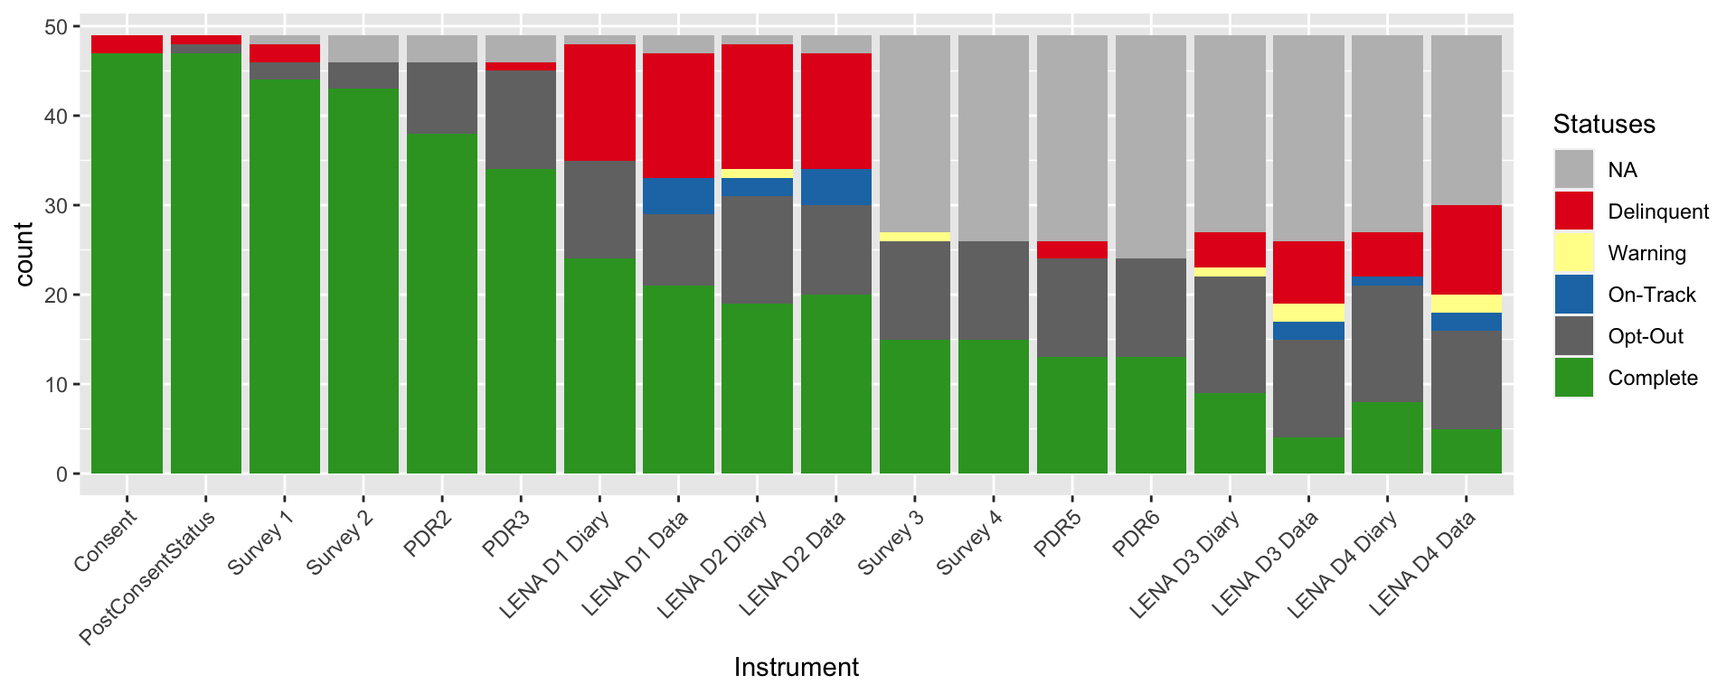
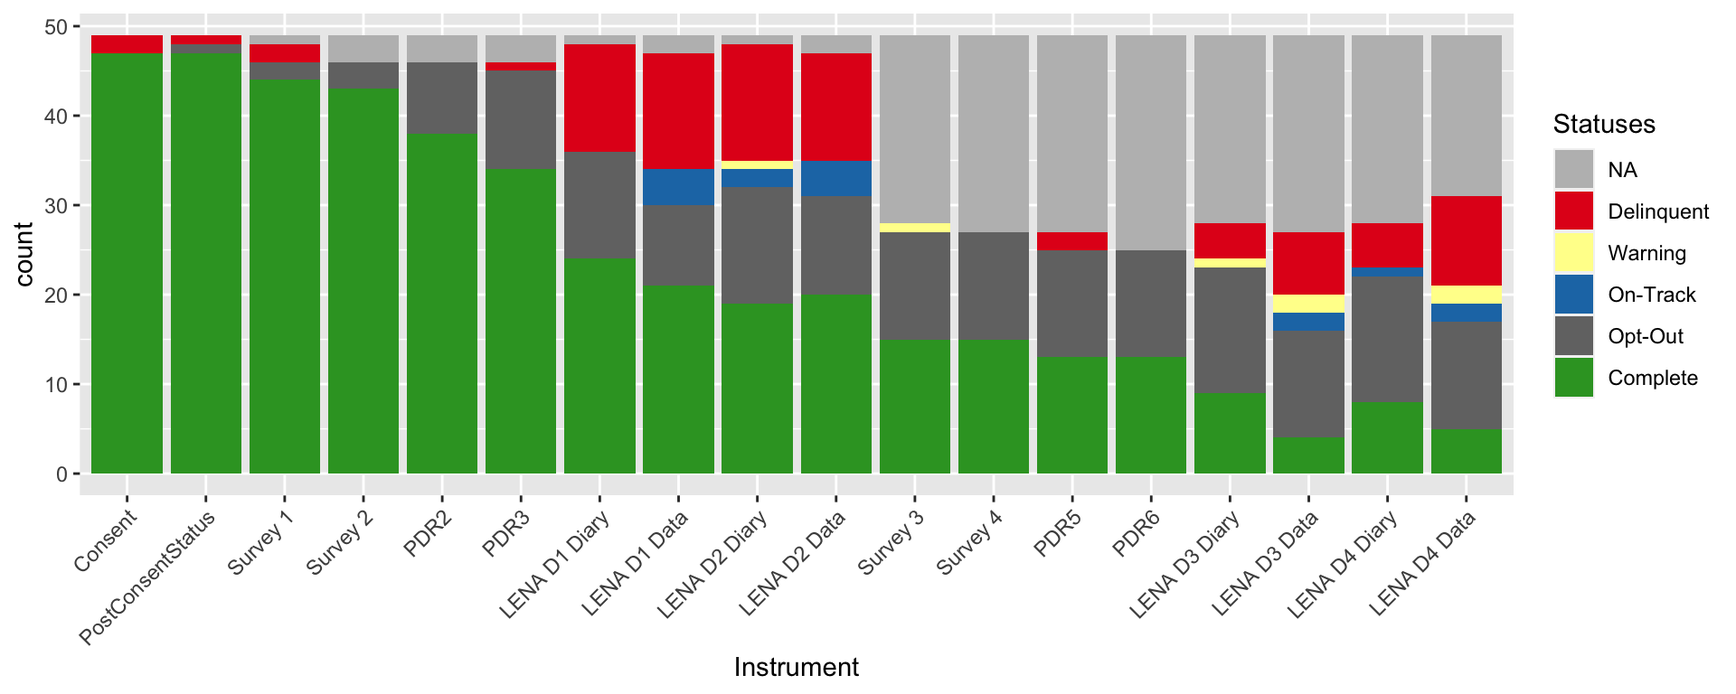
Switch dropoutdate to dropoutstage

diff --git a/_site/reports.html b/_site/reports.html
@@ -399,7 +399,7 @@ $(document).ready(function () {
 </div>
 <center>
 <div id="htmlwidget-1fcff53b1c506bc87854" style="width:960px;height:384px;" class="plotly html-widget"></div>
-<script type="application/json" data-for="htmlwidget-1fcff53b1c506bc87854">{"x":{"data":[{"x":[1594210295,1595855440,1595947129,1596636699,1597147658,1597190400,1597276800,1597402867,1598436608,1598538979,1598541299,1598955066,1599570320,1600250194,1600255992,1600300800,1600355481,1600387200,1600863340,1601302221,1601566658,1602239005,1603368728,1603379955,1603670400,1603977413,1604491899,1604751373,1605089156,1605139200,1605179257,1605721538,1605872792,1607040000,1607472000,1607644800,1607687486,1609891200,1609897301,1611187200,1611878400,1612396800,1612396800,1612396800,1611878400,1611187200,1609897301,1609891200,1607687486,1607644800,1607472000,1607040000,1605872792,1605721538,1605179257,1605139200,1605089156,1604751373,1604491899,1603977413,1603670400,1603379955,1603368728,1602239005,1601566658,1601302221,1600863340,1600387200,1600355481,1600300800,1600255992,1600250194,1599570320,1598955066,1598541299,1598538979,1598436608,1597402867,1597276800,1597190400,1597147658,1596636699,1595947129,1595855440,1594210295,1594210295],"y":[0,0,0,0,0,0,0,0,0,0,0,0,0,0,0,0,0,0,0,0,0,0,0,0,0,0,0,0,0,0,0,0,0,0,0,0,0,0,0,0,0,0,0,43,42,41,40,39,38,37,36,35,34,33,32,31,30,29,28,27,26,25,24,23,22,21,20,19,18,17,16,15,14,13,12,11,10,9,8,6,5,4,3,2,1,0],"text":["InformedConsent: 2020-07-08 19:11:35<br />Cumulative:  1","InformedConsent: 2020-07-27 20:10:40<br />Cumulative:  2","InformedConsent: 2020-07-28 21:38:49<br />Cumulative:  3","InformedConsent: 2020-08-05 21:11:39<br />Cumulative:  4","InformedConsent: 2020-08-11 19:07:38<br />Cumulative:  5","InformedConsent: 2020-08-12 07:00:00<br />Cumulative:  6","InformedConsent: 2020-08-13 07:00:00<br />Cumulative:  8","InformedConsent: 2020-08-14 18:01:07<br />Cumulative:  9","InformedConsent: 2020-08-26 17:10:08<br />Cumulative: 10","InformedConsent: 2020-08-27 21:36:19<br />Cumulative: 11","InformedConsent: 2020-08-27 22:14:59<br />Cumulative: 12","InformedConsent: 2020-09-01 17:11:06<br />Cumulative: 13","InformedConsent: 2020-09-08 20:05:20<br />Cumulative: 14","InformedConsent: 2020-09-16 16:56:34<br />Cumulative: 15","InformedConsent: 2020-09-16 18:33:12<br />Cumulative: 16","InformedConsent: 2020-09-17 07:00:00<br />Cumulative: 17","InformedConsent: 2020-09-17 22:11:21<br />Cumulative: 18","InformedConsent: 2020-09-18 07:00:00<br />Cumulative: 19","InformedConsent: 2020-09-23 19:15:40<br />Cumulative: 20","InformedConsent: 2020-09-28 21:10:21<br />Cumulative: 21","InformedConsent: 2020-10-01 22:37:38<br />Cumulative: 22","InformedConsent: 2020-10-09 17:23:25<br />Cumulative: 23","InformedConsent: 2020-10-22 19:12:08<br />Cumulative: 24","InformedConsent: 2020-10-22 22:19:15<br />Cumulative: 25","InformedConsent: 2020-10-26 07:00:00<br />Cumulative: 26","InformedConsent: 2020-10-29 20:16:53<br />Cumulative: 27","InformedConsent: 2020-11-04 20:11:39<br />Cumulative: 28","InformedConsent: 2020-11-07 20:16:13<br />Cumulative: 29","InformedConsent: 2020-11-11 18:05:56<br />Cumulative: 30","InformedConsent: 2020-11-12 08:00:00<br />Cumulative: 31","InformedConsent: 2020-11-12 19:07:37<br />Cumulative: 32","InformedConsent: 2020-11-19 01:45:38<br />Cumulative: 33","InformedConsent: 2020-11-20 19:46:32<br />Cumulative: 34","InformedConsent: 2020-12-04 08:00:00<br />Cumulative: 35","InformedConsent: 2020-12-09 08:00:00<br />Cumulative: 36","InformedConsent: 2020-12-11 08:00:00<br />Cumulative: 37","InformedConsent: 2020-12-11 19:51:26<br />Cumulative: 38","InformedConsent: 2021-01-06 08:00:00<br />Cumulative: 39","InformedConsent: 2021-01-06 09:41:41<br />Cumulative: 40","InformedConsent: 2021-01-21 08:00:00<br />Cumulative: 41","InformedConsent: 2021-01-29 08:00:00<br />Cumulative: 42","InformedConsent: 2021-02-04 08:00:00<br />Cumulative: 43","InformedConsent: 2021-02-04 08:00:00<br />Cumulative: 43","InformedConsent: 2021-02-04 08:00:00<br />Cumulative: 43","InformedConsent: 2021-01-29 08:00:00<br />Cumulative: 42","InformedConsent: 2021-01-21 08:00:00<br />Cumulative: 41","InformedConsent: 2021-01-06 09:41:41<br />Cumulative: 40","InformedConsent: 2021-01-06 08:00:00<br />Cumulative: 39","InformedConsent: 2020-12-11 19:51:26<br />Cumulative: 38","InformedConsent: 2020-12-11 08:00:00<br />Cumulative: 37","InformedConsent: 2020-12-09 08:00:00<br />Cumulative: 36","InformedConsent: 2020-12-04 08:00:00<br />Cumulative: 35","InformedConsent: 2020-11-20 19:46:32<br />Cumulative: 34","InformedConsent: 2020-11-19 01:45:38<br />Cumulative: 33","InformedConsent: 2020-11-12 19:07:37<br />Cumulative: 32","InformedConsent: 2020-11-12 08:00:00<br />Cumulative: 31","InformedConsent: 2020-11-11 18:05:56<br />Cumulative: 30","InformedConsent: 2020-11-07 20:16:13<br />Cumulative: 29","InformedConsent: 2020-11-04 20:11:39<br />Cumulative: 28","InformedConsent: 2020-10-29 20:16:53<br />Cumulative: 27","InformedConsent: 2020-10-26 07:00:00<br />Cumulative: 26","InformedConsent: 2020-10-22 22:19:15<br />Cumulative: 25","InformedConsent: 2020-10-22 19:12:08<br />Cumulative: 24","InformedConsent: 2020-10-09 17:23:25<br />Cumulative: 23","InformedConsent: 2020-10-01 22:37:38<br />Cumulative: 22","InformedConsent: 2020-09-28 21:10:21<br />Cumulative: 21","InformedConsent: 2020-09-23 19:15:40<br />Cumulative: 20","InformedConsent: 2020-09-18 07:00:00<br />Cumulative: 19","InformedConsent: 2020-09-17 22:11:21<br />Cumulative: 18","InformedConsent: 2020-09-17 07:00:00<br />Cumulative: 17","InformedConsent: 2020-09-16 18:33:12<br />Cumulative: 16","InformedConsent: 2020-09-16 16:56:34<br />Cumulative: 15","InformedConsent: 2020-09-08 20:05:20<br />Cumulative: 14","InformedConsent: 2020-09-01 17:11:06<br />Cumulative: 13","InformedConsent: 2020-08-27 22:14:59<br />Cumulative: 12","InformedConsent: 2020-08-27 21:36:19<br />Cumulative: 11","InformedConsent: 2020-08-26 17:10:08<br />Cumulative: 10","InformedConsent: 2020-08-14 18:01:07<br />Cumulative:  9","InformedConsent: 2020-08-13 07:00:00<br />Cumulative:  8","InformedConsent: 2020-08-12 07:00:00<br />Cumulative:  6","InformedConsent: 2020-08-11 19:07:38<br />Cumulative:  5","InformedConsent: 2020-08-05 21:11:39<br />Cumulative:  4","InformedConsent: 2020-07-28 21:38:49<br />Cumulative:  3","InformedConsent: 2020-07-27 20:10:40<br />Cumulative:  2","InformedConsent: 2020-07-08 19:11:35<br />Cumulative:  1","InformedConsent: 2020-07-08 19:11:35<br />Cumulative:  1"],"type":"scatter","mode":"lines","line":{"width":1.88976377952756,"color":"transparent","dash":"solid"},"fill":"toself","fillcolor":"rgba(105,179,162,0.5)","hoveron":"points","showlegend":false,"xaxis":"x","yaxis":"y","hoverinfo":"text","frame":null},{"x":[1594210295,1595855440,1595947129,1596636699,1597147658,1597190400,1597276800,1597402867,1598436608,1598538979,1598541299,1598955066,1599570320,1600250194,1600255992,1600300800,1600355481,1600387200,1600863340,1601302221,1601566658,1602239005,1603368728,1603379955,1603670400,1603977413,1604491899,1604751373,1605089156,1605139200,1605179257,1605721538,1605872792,1607040000,1607472000,1607644800,1607687486,1609891200,1609897301,1611187200,1611878400,1612396800,null],"y":[1,2,3,4,5,6,8,9,10,11,12,13,14,15,16,17,18,19,20,21,22,23,24,25,26,27,28,29,30,31,32,33,34,35,36,37,38,39,40,41,42,43,48],"text":["InformedConsent: 2020-07-08 12:11:35<br />Cumulative:  1","InformedConsent: 2020-07-27 13:10:40<br />Cumulative:  2","InformedConsent: 2020-07-28 14:38:49<br />Cumulative:  3","InformedConsent: 2020-08-05 14:11:39<br />Cumulative:  4","InformedConsent: 2020-08-11 12:07:38<br />Cumulative:  5","InformedConsent: 2020-08-12 00:00:00<br />Cumulative:  6","InformedConsent: 2020-08-13 00:00:00<br />Cumulative:  8","InformedConsent: 2020-08-14 11:01:07<br />Cumulative:  9","InformedConsent: 2020-08-26 10:10:08<br />Cumulative: 10","InformedConsent: 2020-08-27 14:36:19<br />Cumulative: 11","InformedConsent: 2020-08-27 15:14:59<br />Cumulative: 12","InformedConsent: 2020-09-01 10:11:06<br />Cumulative: 13","InformedConsent: 2020-09-08 13:05:20<br />Cumulative: 14","InformedConsent: 2020-09-16 09:56:34<br />Cumulative: 15","InformedConsent: 2020-09-16 11:33:12<br />Cumulative: 16","InformedConsent: 2020-09-17 00:00:00<br />Cumulative: 17","InformedConsent: 2020-09-17 15:11:21<br />Cumulative: 18","InformedConsent: 2020-09-18 00:00:00<br />Cumulative: 19","InformedConsent: 2020-09-23 12:15:40<br />Cumulative: 20","InformedConsent: 2020-09-28 14:10:21<br />Cumulative: 21","InformedConsent: 2020-10-01 15:37:38<br />Cumulative: 22","InformedConsent: 2020-10-09 10:23:25<br />Cumulative: 23","InformedConsent: 2020-10-22 12:12:08<br />Cumulative: 24","InformedConsent: 2020-10-22 15:19:15<br />Cumulative: 25","InformedConsent: 2020-10-26 00:00:00<br />Cumulative: 26","InformedConsent: 2020-10-29 13:16:53<br />Cumulative: 27","InformedConsent: 2020-11-04 12:11:39<br />Cumulative: 28","InformedConsent: 2020-11-07 12:16:13<br />Cumulative: 29","InformedConsent: 2020-11-11 10:05:56<br />Cumulative: 30","InformedConsent: 2020-11-12 00:00:00<br />Cumulative: 31","InformedConsent: 2020-11-12 11:07:37<br />Cumulative: 32","InformedConsent: 2020-11-18 17:45:38<br />Cumulative: 33","InformedConsent: 2020-11-20 11:46:32<br />Cumulative: 34","InformedConsent: 2020-12-04 00:00:00<br />Cumulative: 35","InformedConsent: 2020-12-09 00:00:00<br />Cumulative: 36","InformedConsent: 2020-12-11 00:00:00<br />Cumulative: 37","InformedConsent: 2020-12-11 11:51:26<br />Cumulative: 38","InformedConsent: 2021-01-06 00:00:00<br />Cumulative: 39","InformedConsent: 2021-01-06 01:41:41<br />Cumulative: 40","InformedConsent: 2021-01-21 00:00:00<br />Cumulative: 41","InformedConsent: 2021-01-29 00:00:00<br />Cumulative: 42","InformedConsent: 2021-02-04 00:00:00<br />Cumulative: 43","InformedConsent: NA<br />Cumulative: 48"],"type":"scatter","mode":"lines","line":{"width":1.88976377952756,"color":"rgba(105,179,162,1)","dash":"solid"},"hoveron":"points","showlegend":false,"xaxis":"x","yaxis":"y","hoverinfo":"text","frame":null}],"layout":{"margin":{"t":65.813200498132,"r":39.8505603985056,"b":80.8634288086343,"l":70.9007887090079},"font":{"color":"rgba(0,0,0,1)","family":"Arial Narrow","size":15.2760481527605},"xaxis":{"domain":[0,1],"automargin":true,"type":"linear","autorange":false,"range":[1593300969.75,1613306125.25],"tickmode":"array","ticktext":["Jul","Oct","Jan"],"tickvals":[1593561600,1601510400,1609459200],"categoryorder":"array","categoryarray":["Jul","Oct","Jan"],"nticks":null,"ticks":"","tickcolor":null,"ticklen":3.81901203819012,"tickwidth":0,"showticklabels":true,"tickfont":{"color":"rgba(77,77,77,1)","family":"Arial Narrow","size":15.2760481527605},"tickangle":-0,"showline":false,"linecolor":null,"linewidth":0,"showgrid":true,"gridcolor":"rgba(204,204,204,1)","gridwidth":0.265670402656704,"zeroline":false,"anchor":"y","title":{"text":"Time","font":{"color":"rgba(0,0,0,1)","family":"Arial Narrow","size":11.9551681195517}},"hoverformat":".2f"},"yaxis":{"domain":[0,1],"automargin":true,"type":"linear","autorange":false,"range":[-2.4,50.4],"tickmode":"array","ticktext":["0","10","20","30","40","50"],"tickvals":[0,10,20,30,40,50],"categoryorder":"array","categoryarray":["0","10","20","30","40","50"],"nticks":null,"ticks":"","tickcolor":null,"ticklen":3.81901203819012,"tickwidth":0,"showticklabels":true,"tickfont":{"color":"rgba(77,77,77,1)","family":"Arial Narrow","size":15.2760481527605},"tickangle":-0,"showline":false,"linecolor":null,"linewidth":0,"showgrid":true,"gridcolor":"rgba(204,204,204,1)","gridwidth":0.265670402656704,"zeroline":false,"anchor":"x","title":{"text":"Dyad Count","font":{"color":"rgba(0,0,0,1)","family":"Arial Narrow","size":11.9551681195517}},"hoverformat":".2f"},"shapes":[{"type":"rect","fillcolor":null,"line":{"color":null,"width":0,"linetype":[]},"yref":"paper","xref":"paper","x0":0,"x1":1,"y0":0,"y1":1}],"showlegend":false,"legend":{"bgcolor":null,"bordercolor":null,"borderwidth":0,"font":{"color":"rgba(0,0,0,1)","family":"Arial Narrow","size":12.2208385222084}},"hovermode":"closest","barmode":"relative"},"config":{"doubleClick":"reset","showSendToCloud":false},"source":"A","attrs":{"1031569034be":{"x":{},"y":{},"type":"scatter"},"10311576d258":{"x":{},"y":{}}},"cur_data":"1031569034be","visdat":{"1031569034be":["function (y) ","x"],"10311576d258":["function (y) ","x"]},"highlight":{"on":"plotly_click","persistent":false,"dynamic":false,"selectize":false,"opacityDim":0.2,"selected":{"opacity":1},"debounce":0},"shinyEvents":["plotly_hover","plotly_click","plotly_selected","plotly_relayout","plotly_brushed","plotly_brushing","plotly_clickannotation","plotly_doubleclick","plotly_deselect","plotly_afterplot","plotly_sunburstclick"],"base_url":"https://plot.ly"},"evals":[],"jsHooks":[]}</script><img src="reports_files/figure-html/SEAL%20Conditions%20Plot-2.png" width="960" />
+<script type="application/json" data-for="htmlwidget-1fcff53b1c506bc87854">{"x":{"data":[{"x":[1594210295,1595855440,1595947129,1596636699,1597147658,1597190400,1597276800,1597402867,1598436608,1598538979,1598541299,1598955066,1599570320,1600250194,1600255992,1600300800,1600355481,1600387200,1600863340,1601302221,1601566658,1602239005,1603368728,1603379955,1603670400,1603977413,1604491899,1604751373,1605089156,1605139200,1605179257,1605721538,1605872792,1607040000,1607472000,1607644800,1607687486,1609891200,1609897301,1611187200,1611878400,1612396800,1612396800,1612396800,1611878400,1611187200,1609897301,1609891200,1607687486,1607644800,1607472000,1607040000,1605872792,1605721538,1605179257,1605139200,1605089156,1604751373,1604491899,1603977413,1603670400,1603379955,1603368728,1602239005,1601566658,1601302221,1600863340,1600387200,1600355481,1600300800,1600255992,1600250194,1599570320,1598955066,1598541299,1598538979,1598436608,1597402867,1597276800,1597190400,1597147658,1596636699,1595947129,1595855440,1594210295,1594210295],"y":[0,0,0,0,0,0,0,0,0,0,0,0,0,0,0,0,0,0,0,0,0,0,0,0,0,0,0,0,0,0,0,0,0,0,0,0,0,0,0,0,0,0,0,43,42,41,40,39,38,37,36,35,34,33,32,31,30,29,28,27,26,25,24,23,22,21,20,19,18,17,16,15,14,13,12,11,10,9,8,6,5,4,3,2,1,0],"text":["InformedConsent: 2020-07-08 19:11:35<br />Cumulative:  1","InformedConsent: 2020-07-27 20:10:40<br />Cumulative:  2","InformedConsent: 2020-07-28 21:38:49<br />Cumulative:  3","InformedConsent: 2020-08-05 21:11:39<br />Cumulative:  4","InformedConsent: 2020-08-11 19:07:38<br />Cumulative:  5","InformedConsent: 2020-08-12 07:00:00<br />Cumulative:  6","InformedConsent: 2020-08-13 07:00:00<br />Cumulative:  8","InformedConsent: 2020-08-14 18:01:07<br />Cumulative:  9","InformedConsent: 2020-08-26 17:10:08<br />Cumulative: 10","InformedConsent: 2020-08-27 21:36:19<br />Cumulative: 11","InformedConsent: 2020-08-27 22:14:59<br />Cumulative: 12","InformedConsent: 2020-09-01 17:11:06<br />Cumulative: 13","InformedConsent: 2020-09-08 20:05:20<br />Cumulative: 14","InformedConsent: 2020-09-16 16:56:34<br />Cumulative: 15","InformedConsent: 2020-09-16 18:33:12<br />Cumulative: 16","InformedConsent: 2020-09-17 07:00:00<br />Cumulative: 17","InformedConsent: 2020-09-17 22:11:21<br />Cumulative: 18","InformedConsent: 2020-09-18 07:00:00<br />Cumulative: 19","InformedConsent: 2020-09-23 19:15:40<br />Cumulative: 20","InformedConsent: 2020-09-28 21:10:21<br />Cumulative: 21","InformedConsent: 2020-10-01 22:37:38<br />Cumulative: 22","InformedConsent: 2020-10-09 17:23:25<br />Cumulative: 23","InformedConsent: 2020-10-22 19:12:08<br />Cumulative: 24","InformedConsent: 2020-10-22 22:19:15<br />Cumulative: 25","InformedConsent: 2020-10-26 07:00:00<br />Cumulative: 26","InformedConsent: 2020-10-29 20:16:53<br />Cumulative: 27","InformedConsent: 2020-11-04 20:11:39<br />Cumulative: 28","InformedConsent: 2020-11-07 20:16:13<br />Cumulative: 29","InformedConsent: 2020-11-11 18:05:56<br />Cumulative: 30","InformedConsent: 2020-11-12 08:00:00<br />Cumulative: 31","InformedConsent: 2020-11-12 19:07:37<br />Cumulative: 32","InformedConsent: 2020-11-19 01:45:38<br />Cumulative: 33","InformedConsent: 2020-11-20 19:46:32<br />Cumulative: 34","InformedConsent: 2020-12-04 08:00:00<br />Cumulative: 35","InformedConsent: 2020-12-09 08:00:00<br />Cumulative: 36","InformedConsent: 2020-12-11 08:00:00<br />Cumulative: 37","InformedConsent: 2020-12-11 19:51:26<br />Cumulative: 38","InformedConsent: 2021-01-06 08:00:00<br />Cumulative: 39","InformedConsent: 2021-01-06 09:41:41<br />Cumulative: 40","InformedConsent: 2021-01-21 08:00:00<br />Cumulative: 41","InformedConsent: 2021-01-29 08:00:00<br />Cumulative: 42","InformedConsent: 2021-02-04 08:00:00<br />Cumulative: 43","InformedConsent: 2021-02-04 08:00:00<br />Cumulative: 43","InformedConsent: 2021-02-04 08:00:00<br />Cumulative: 43","InformedConsent: 2021-01-29 08:00:00<br />Cumulative: 42","InformedConsent: 2021-01-21 08:00:00<br />Cumulative: 41","InformedConsent: 2021-01-06 09:41:41<br />Cumulative: 40","InformedConsent: 2021-01-06 08:00:00<br />Cumulative: 39","InformedConsent: 2020-12-11 19:51:26<br />Cumulative: 38","InformedConsent: 2020-12-11 08:00:00<br />Cumulative: 37","InformedConsent: 2020-12-09 08:00:00<br />Cumulative: 36","InformedConsent: 2020-12-04 08:00:00<br />Cumulative: 35","InformedConsent: 2020-11-20 19:46:32<br />Cumulative: 34","InformedConsent: 2020-11-19 01:45:38<br />Cumulative: 33","InformedConsent: 2020-11-12 19:07:37<br />Cumulative: 32","InformedConsent: 2020-11-12 08:00:00<br />Cumulative: 31","InformedConsent: 2020-11-11 18:05:56<br />Cumulative: 30","InformedConsent: 2020-11-07 20:16:13<br />Cumulative: 29","InformedConsent: 2020-11-04 20:11:39<br />Cumulative: 28","InformedConsent: 2020-10-29 20:16:53<br />Cumulative: 27","InformedConsent: 2020-10-26 07:00:00<br />Cumulative: 26","InformedConsent: 2020-10-22 22:19:15<br />Cumulative: 25","InformedConsent: 2020-10-22 19:12:08<br />Cumulative: 24","InformedConsent: 2020-10-09 17:23:25<br />Cumulative: 23","InformedConsent: 2020-10-01 22:37:38<br />Cumulative: 22","InformedConsent: 2020-09-28 21:10:21<br />Cumulative: 21","InformedConsent: 2020-09-23 19:15:40<br />Cumulative: 20","InformedConsent: 2020-09-18 07:00:00<br />Cumulative: 19","InformedConsent: 2020-09-17 22:11:21<br />Cumulative: 18","InformedConsent: 2020-09-17 07:00:00<br />Cumulative: 17","InformedConsent: 2020-09-16 18:33:12<br />Cumulative: 16","InformedConsent: 2020-09-16 16:56:34<br />Cumulative: 15","InformedConsent: 2020-09-08 20:05:20<br />Cumulative: 14","InformedConsent: 2020-09-01 17:11:06<br />Cumulative: 13","InformedConsent: 2020-08-27 22:14:59<br />Cumulative: 12","InformedConsent: 2020-08-27 21:36:19<br />Cumulative: 11","InformedConsent: 2020-08-26 17:10:08<br />Cumulative: 10","InformedConsent: 2020-08-14 18:01:07<br />Cumulative:  9","InformedConsent: 2020-08-13 07:00:00<br />Cumulative:  8","InformedConsent: 2020-08-12 07:00:00<br />Cumulative:  6","InformedConsent: 2020-08-11 19:07:38<br />Cumulative:  5","InformedConsent: 2020-08-05 21:11:39<br />Cumulative:  4","InformedConsent: 2020-07-28 21:38:49<br />Cumulative:  3","InformedConsent: 2020-07-27 20:10:40<br />Cumulative:  2","InformedConsent: 2020-07-08 19:11:35<br />Cumulative:  1","InformedConsent: 2020-07-08 19:11:35<br />Cumulative:  1"],"type":"scatter","mode":"lines","line":{"width":1.88976377952756,"color":"transparent","dash":"solid"},"fill":"toself","fillcolor":"rgba(105,179,162,0.5)","hoveron":"points","showlegend":false,"xaxis":"x","yaxis":"y","hoverinfo":"text","frame":null},{"x":[1594210295,1595855440,1595947129,1596636699,1597147658,1597190400,1597276800,1597402867,1598436608,1598538979,1598541299,1598955066,1599570320,1600250194,1600255992,1600300800,1600355481,1600387200,1600863340,1601302221,1601566658,1602239005,1603368728,1603379955,1603670400,1603977413,1604491899,1604751373,1605089156,1605139200,1605179257,1605721538,1605872792,1607040000,1607472000,1607644800,1607687486,1609891200,1609897301,1611187200,1611878400,1612396800,null],"y":[1,2,3,4,5,6,8,9,10,11,12,13,14,15,16,17,18,19,20,21,22,23,24,25,26,27,28,29,30,31,32,33,34,35,36,37,38,39,40,41,42,43,48],"text":["InformedConsent: 2020-07-08 12:11:35<br />Cumulative:  1","InformedConsent: 2020-07-27 13:10:40<br />Cumulative:  2","InformedConsent: 2020-07-28 14:38:49<br />Cumulative:  3","InformedConsent: 2020-08-05 14:11:39<br />Cumulative:  4","InformedConsent: 2020-08-11 12:07:38<br />Cumulative:  5","InformedConsent: 2020-08-12 00:00:00<br />Cumulative:  6","InformedConsent: 2020-08-13 00:00:00<br />Cumulative:  8","InformedConsent: 2020-08-14 11:01:07<br />Cumulative:  9","InformedConsent: 2020-08-26 10:10:08<br />Cumulative: 10","InformedConsent: 2020-08-27 14:36:19<br />Cumulative: 11","InformedConsent: 2020-08-27 15:14:59<br />Cumulative: 12","InformedConsent: 2020-09-01 10:11:06<br />Cumulative: 13","InformedConsent: 2020-09-08 13:05:20<br />Cumulative: 14","InformedConsent: 2020-09-16 09:56:34<br />Cumulative: 15","InformedConsent: 2020-09-16 11:33:12<br />Cumulative: 16","InformedConsent: 2020-09-17 00:00:00<br />Cumulative: 17","InformedConsent: 2020-09-17 15:11:21<br />Cumulative: 18","InformedConsent: 2020-09-18 00:00:00<br />Cumulative: 19","InformedConsent: 2020-09-23 12:15:40<br />Cumulative: 20","InformedConsent: 2020-09-28 14:10:21<br />Cumulative: 21","InformedConsent: 2020-10-01 15:37:38<br />Cumulative: 22","InformedConsent: 2020-10-09 10:23:25<br />Cumulative: 23","InformedConsent: 2020-10-22 12:12:08<br />Cumulative: 24","InformedConsent: 2020-10-22 15:19:15<br />Cumulative: 25","InformedConsent: 2020-10-26 00:00:00<br />Cumulative: 26","InformedConsent: 2020-10-29 13:16:53<br />Cumulative: 27","InformedConsent: 2020-11-04 12:11:39<br />Cumulative: 28","InformedConsent: 2020-11-07 12:16:13<br />Cumulative: 29","InformedConsent: 2020-11-11 10:05:56<br />Cumulative: 30","InformedConsent: 2020-11-12 00:00:00<br />Cumulative: 31","InformedConsent: 2020-11-12 11:07:37<br />Cumulative: 32","InformedConsent: 2020-11-18 17:45:38<br />Cumulative: 33","InformedConsent: 2020-11-20 11:46:32<br />Cumulative: 34","InformedConsent: 2020-12-04 00:00:00<br />Cumulative: 35","InformedConsent: 2020-12-09 00:00:00<br />Cumulative: 36","InformedConsent: 2020-12-11 00:00:00<br />Cumulative: 37","InformedConsent: 2020-12-11 11:51:26<br />Cumulative: 38","InformedConsent: 2021-01-06 00:00:00<br />Cumulative: 39","InformedConsent: 2021-01-06 01:41:41<br />Cumulative: 40","InformedConsent: 2021-01-21 00:00:00<br />Cumulative: 41","InformedConsent: 2021-01-29 00:00:00<br />Cumulative: 42","InformedConsent: 2021-02-04 00:00:00<br />Cumulative: 43","InformedConsent: NA<br />Cumulative: 48"],"type":"scatter","mode":"lines","line":{"width":1.88976377952756,"color":"rgba(105,179,162,1)","dash":"solid"},"hoveron":"points","showlegend":false,"xaxis":"x","yaxis":"y","hoverinfo":"text","frame":null}],"layout":{"margin":{"t":65.813200498132,"r":39.8505603985056,"b":80.8634288086343,"l":70.9007887090079},"font":{"color":"rgba(0,0,0,1)","family":"Arial Narrow","size":15.2760481527605},"xaxis":{"domain":[0,1],"automargin":true,"type":"linear","autorange":false,"range":[1593300969.75,1613306125.25],"tickmode":"array","ticktext":["Jul","Oct","Jan"],"tickvals":[1593561600,1601510400,1609459200],"categoryorder":"array","categoryarray":["Jul","Oct","Jan"],"nticks":null,"ticks":"","tickcolor":null,"ticklen":3.81901203819012,"tickwidth":0,"showticklabels":true,"tickfont":{"color":"rgba(77,77,77,1)","family":"Arial Narrow","size":15.2760481527605},"tickangle":-0,"showline":false,"linecolor":null,"linewidth":0,"showgrid":true,"gridcolor":"rgba(204,204,204,1)","gridwidth":0.265670402656704,"zeroline":false,"anchor":"y","title":{"text":"Time","font":{"color":"rgba(0,0,0,1)","family":"Arial Narrow","size":11.9551681195517}},"hoverformat":".2f"},"yaxis":{"domain":[0,1],"automargin":true,"type":"linear","autorange":false,"range":[-2.4,50.4],"tickmode":"array","ticktext":["0","10","20","30","40","50"],"tickvals":[0,10,20,30,40,50],"categoryorder":"array","categoryarray":["0","10","20","30","40","50"],"nticks":null,"ticks":"","tickcolor":null,"ticklen":3.81901203819012,"tickwidth":0,"showticklabels":true,"tickfont":{"color":"rgba(77,77,77,1)","family":"Arial Narrow","size":15.2760481527605},"tickangle":-0,"showline":false,"linecolor":null,"linewidth":0,"showgrid":true,"gridcolor":"rgba(204,204,204,1)","gridwidth":0.265670402656704,"zeroline":false,"anchor":"x","title":{"text":"Dyad Count","font":{"color":"rgba(0,0,0,1)","family":"Arial Narrow","size":11.9551681195517}},"hoverformat":".2f"},"shapes":[{"type":"rect","fillcolor":null,"line":{"color":null,"width":0,"linetype":[]},"yref":"paper","xref":"paper","x0":0,"x1":1,"y0":0,"y1":1}],"showlegend":false,"legend":{"bgcolor":null,"bordercolor":null,"borderwidth":0,"font":{"color":"rgba(0,0,0,1)","family":"Arial Narrow","size":12.2208385222084}},"hovermode":"closest","barmode":"relative"},"config":{"doubleClick":"reset","showSendToCloud":false},"source":"A","attrs":{"1a3c25c2051":{"x":{},"y":{},"type":"scatter"},"1a3c6e4da70c":{"x":{},"y":{}}},"cur_data":"1a3c25c2051","visdat":{"1a3c25c2051":["function (y) ","x"],"1a3c6e4da70c":["function (y) ","x"]},"highlight":{"on":"plotly_click","persistent":false,"dynamic":false,"selectize":false,"opacityDim":0.2,"selected":{"opacity":1},"debounce":0},"shinyEvents":["plotly_hover","plotly_click","plotly_selected","plotly_relayout","plotly_brushed","plotly_brushing","plotly_clickannotation","plotly_doubleclick","plotly_deselect","plotly_afterplot","plotly_sunburstclick"],"base_url":"https://plot.ly"},"evals":[],"jsHooks":[]}</script><img src="reports_files/figure-html/SEAL%20Conditions%20Plot-2.png" width="960" />
 <center>
 <div>
 

diff --git a/_site/enrollment.html b/_site/enrollment.html
@@ -411,7 +411,7 @@ $(document).ready(function () {
 <a href="#" class="btn btn-primary"><strong>Wave 1 Complete</strong><br>20</a>
 </div>
 <div class="btn-group">
-<a href="#" class="btn btn-primary"><strong>Wave 1 In Progress</strong><br>18</a>
+<a href="#" class="btn btn-primary"><strong>Wave 1 In Progress</strong><br>17</a>
 </div>
 <div class="btn-group">
 <a href="#" class="btn btn-primary"><strong>Wave 1 Drop-Outs</strong><br> 9 </a>
@@ -455,7 +455,7 @@ $(document).ready(function () {
 <a href="#" class="btn btn-danger"><strong>Total Complete with Study</strong><br>TBD</a>
 </div>
 <div class="btn-group">
-<a href="#" class="btn btn-danger"><strong>Total In Progress</strong><br> 40 </a>
+<a href="#" class="btn btn-danger"><strong>Total In Progress</strong><br> 39 </a>
 </div>
 <div class="btn-group">
 <a href="#" class="btn btn-danger"><strong>Total Drop-Outs</strong><br>12</a>
@@ -643,7 +643,7 @@ LENA D1 Diary
 24
 </td>
 <td style="text-align:right;">
-11
+12
 </td>
 <td style="text-align:right;">
 0
@@ -652,7 +652,7 @@ LENA D1 Diary
 0
 </td>
 <td style="text-align:right;">
-13
+12
 </td>
 <td style="text-align:right;">
 1
@@ -666,7 +666,7 @@ LENA D1 Data
 21
 </td>
 <td style="text-align:right;">
-8
+9
 </td>
 <td style="text-align:right;">
 4
@@ -675,7 +675,7 @@ LENA D1 Data
 0
 </td>
 <td style="text-align:right;">
-14
+13
 </td>
 <td style="text-align:right;">
 2
@@ -689,7 +689,7 @@ LENA D2 Diary
 19
 </td>
 <td style="text-align:right;">
-12
+13
 </td>
 <td style="text-align:right;">
 2
@@ -698,7 +698,7 @@ LENA D2 Diary
 1
 </td>
 <td style="text-align:right;">
-14
+13
 </td>
 <td style="text-align:right;">
 1
@@ -712,7 +712,7 @@ LENA D2 Data
 20
 </td>
 <td style="text-align:right;">
-10
+11
 </td>
 <td style="text-align:right;">
 4
@@ -721,7 +721,7 @@ LENA D2 Data
 0
 </td>
 <td style="text-align:right;">
-13
+12
 </td>
 <td style="text-align:right;">
 2
@@ -735,7 +735,7 @@ Survey 3
 15
 </td>
 <td style="text-align:right;">
-11
+12
 </td>
 <td style="text-align:right;">
 0
@@ -747,7 +747,7 @@ Survey 3
 0
 </td>
 <td style="text-align:right;">
-22
+21
 </td>
 </tr>
 <tr>
@@ -758,7 +758,7 @@ Survey 4
 15
 </td>
 <td style="text-align:right;">
-11
+12
 </td>
 <td style="text-align:right;">
 0
@@ -770,7 +770,7 @@ Survey 4
 0
 </td>
 <td style="text-align:right;">
-23
+22
 </td>
 </tr>
 <tr>
@@ -781,7 +781,7 @@ PDR5
 13
 </td>
 <td style="text-align:right;">
-11
+12
 </td>
 <td style="text-align:right;">
 0
@@ -793,7 +793,7 @@ PDR5
 2
 </td>
 <td style="text-align:right;">
-23
+22
 </td>
 </tr>
 <tr>
@@ -804,7 +804,7 @@ PDR6
 13
 </td>
 <td style="text-align:right;">
-11
+12
 </td>
 <td style="text-align:right;">
 0
@@ -816,7 +816,7 @@ PDR6
 0
 </td>
 <td style="text-align:right;">
-25
+24
 </td>
 </tr>
 <tr>
@@ -827,7 +827,7 @@ LENA D3 Diary
 9
 </td>
 <td style="text-align:right;">
-13
+14
 </td>
 <td style="text-align:right;">
 0
@@ -839,7 +839,7 @@ LENA D3 Diary
 4
 </td>
 <td style="text-align:right;">
-22
+21
 </td>
 </tr>
 <tr>
@@ -850,7 +850,7 @@ LENA D3 Data
 4
 </td>
 <td style="text-align:right;">
-11
+12
 </td>
 <td style="text-align:right;">
 2
@@ -862,7 +862,7 @@ LENA D3 Data
 7
 </td>
 <td style="text-align:right;">
-23
+22
 </td>
 </tr>
 <tr>
@@ -873,7 +873,7 @@ LENA D4 Diary
 8
 </td>
 <td style="text-align:right;">
-13
+14
 </td>
 <td style="text-align:right;">
 1
@@ -885,7 +885,7 @@ LENA D4 Diary
 5
 </td>
 <td style="text-align:right;">
-22
+21
 </td>
 </tr>
 <tr>
@@ -896,7 +896,7 @@ LENA D4 Data
 5
 </td>
 <td style="text-align:right;">
-11
+12
 </td>
 <td style="text-align:right;">
 2
@@ -908,7 +908,7 @@ LENA D4 Data
 10
 </td>
 <td style="text-align:right;">
-19
+18
 </td>
 </tr>
 </tbody>
